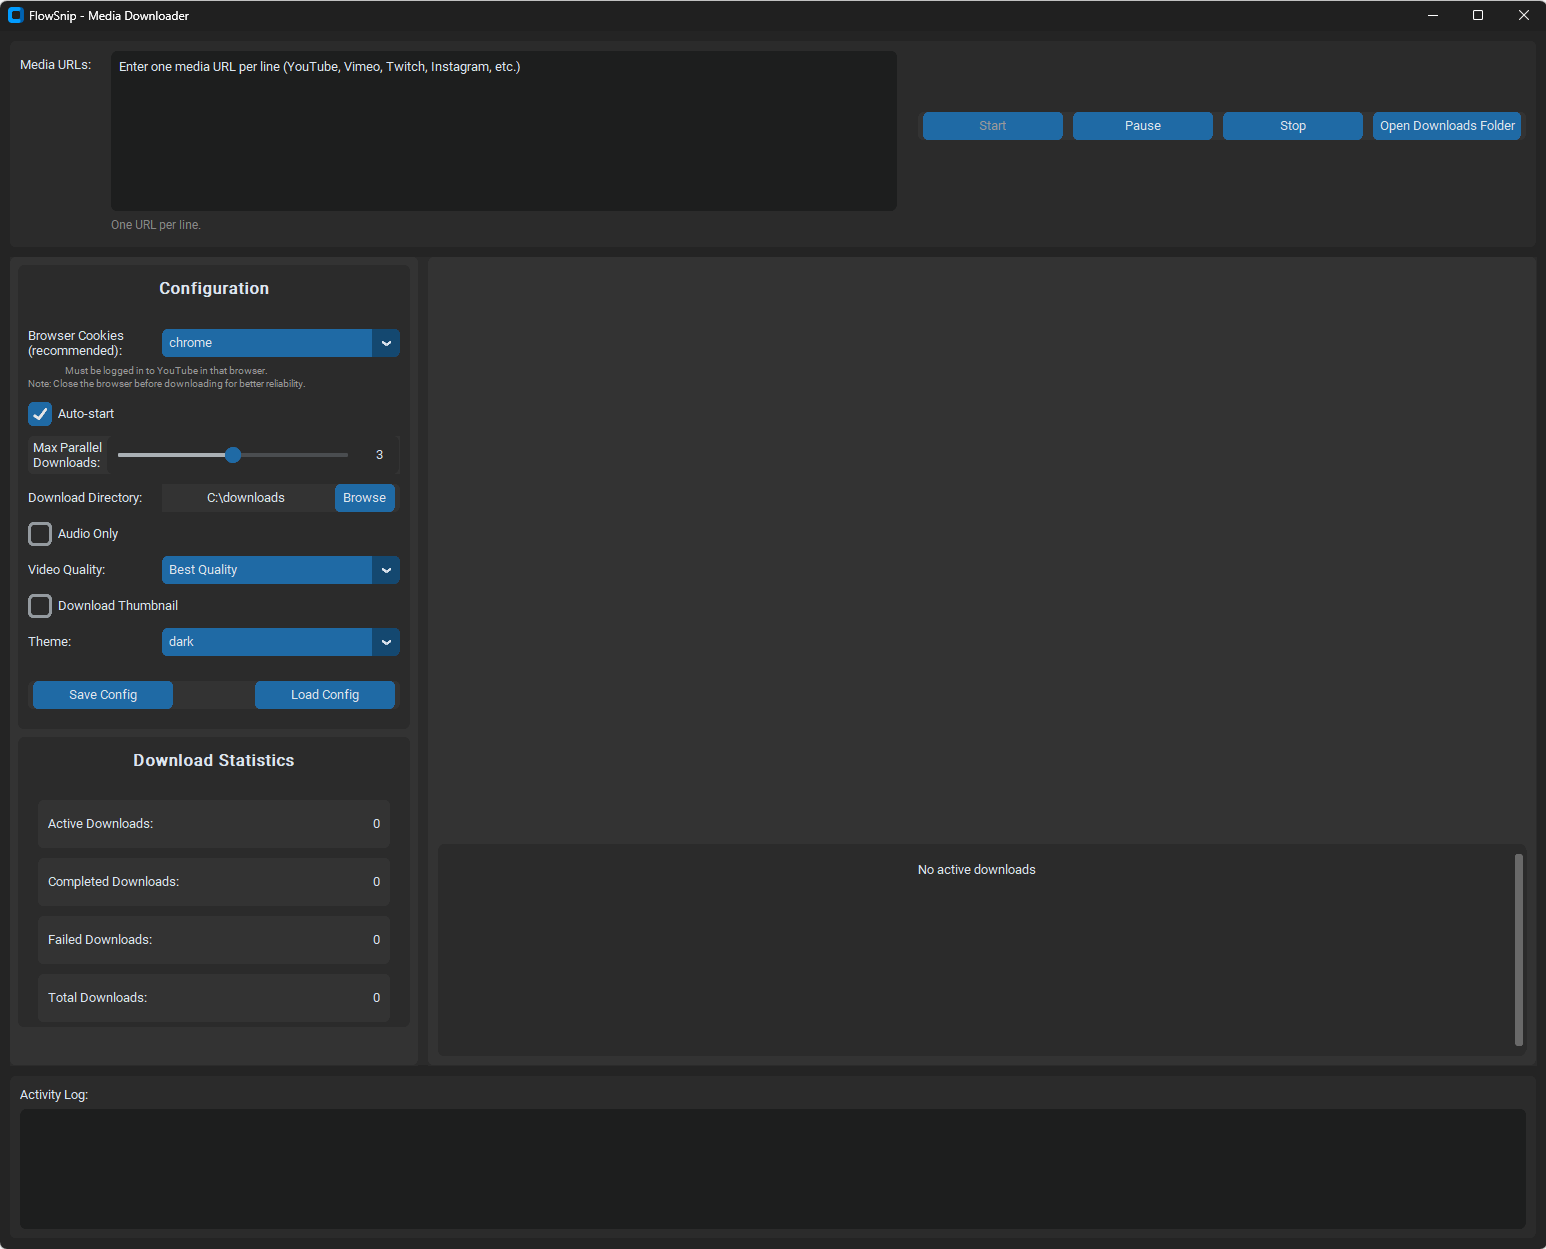
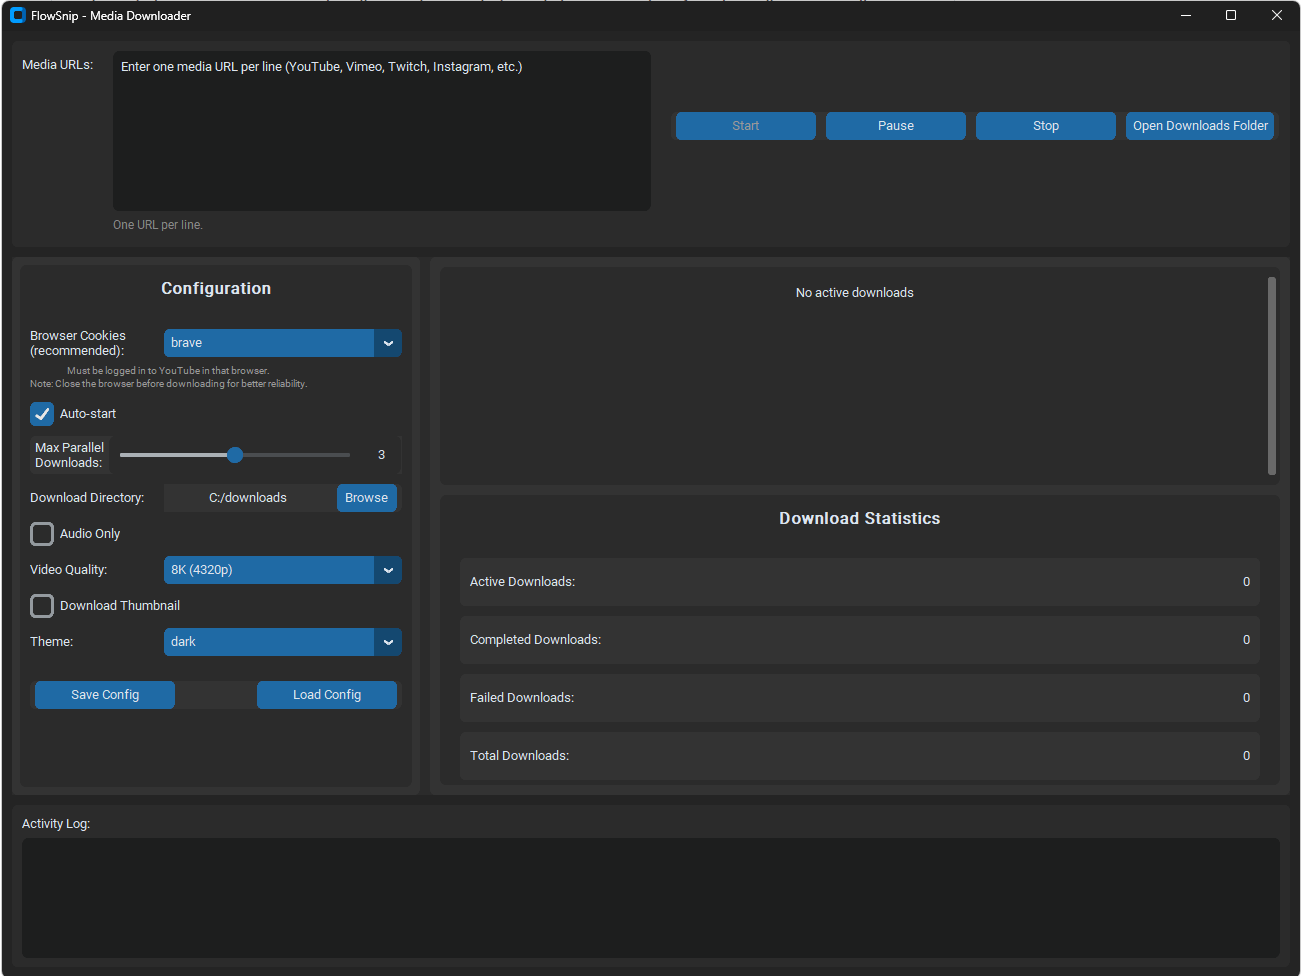
Rearrange the panels so configuration options aren't clipped off

diff --git a/flowsnip/gui.py b/flowsnip/gui.py
@@ -544,47 +544,20 @@ class FlowSnipGUI:
         self.root.grid_rowconfigure(2, weight=0)
 
     def _show_disclaimer_modal(self):
-        """Show the legal disclaimer as a blocking modal after the window renders."""
-        disclaimer_text = (
-            "Legal Disclaimer\n\n"
+        """Show the legal disclaimer after the window has rendered."""
+        result = messagebox.askyesno(
+            "Legal Disclaimer - FlowSnip",
             "FlowSnip is a tool for accessing content you own or have a legal right to access.\n\n"
             "You are solely responsible for:\n"
             "• Ensuring compliance with platform terms of service\n"
-            "• Respecting copyright and intellectual property laws\n"
+            "• Respecting copyright and intellectual property laws\n\n"
             "Maintainers assume NO LIABILITY for legal violations or misuse.\n\n"
-            "For full details, see DISCLAIMER.md in the project repository."
+            "For full details, see DISCLAIMER.md.\n\nDo you agree to these terms?",
         )
-        modal = ctk.CTkToplevel(self.root)
-        modal.title("Legal Disclaimer - FlowSnip")
-        modal.resizable(False, False)
-        modal.grab_set()
-
-        ctk.CTkLabel(modal, text=disclaimer_text, wraplength=400, justify="left").pack(
-            padx=20, pady=(20, 10)
-        )
-
-        accepted = [False]
-
-        def on_accept():
-            accepted[0] = True
-            modal.destroy()
-
-        def on_decline():
-            modal.destroy()
-
-        btn_frame = ctk.CTkFrame(modal)
-        btn_frame.pack(pady=(10, 20))
-        ctk.CTkButton(btn_frame, text="I Agree", command=on_accept).pack(
-            side="left", padx=10
-        )
-        ctk.CTkButton(btn_frame, text="Decline", command=on_decline).pack(
-            side="left", padx=10
-        )
-        modal.wait_window()
-
-        if not accepted[0]:
+        if not result:
             messagebox.showinfo(
-                "Terminated", "You did not agree to the terms. FlowSnip will now exit."
+                "Terminated",
+                "You did not agree to the terms. FlowSnip will now exit.",
             )
             sys.exit(0)
 
@@ -658,7 +631,7 @@ class FlowSnipGUI:
         self.open_folder_button.pack(side="left", padx=5)
 
     def _setup_sidebar(self):
-        """Build the left sidebar containing config and statistics panels."""
+        """Build the left sidebar containing the configuration panel."""
         main_frame = ctk.CTkFrame(self.root)
         main_frame.grid(row=1, column=0, sticky="nsew", padx=10, pady=(0, 10))
         main_frame.grid_columnconfigure(0, weight=0)
@@ -669,29 +642,29 @@ class FlowSnipGUI:
         sidebar.grid(row=0, column=0, sticky="ns", padx=(0, 10), pady=0)
 
         self.config_frame = ConfigFrame(sidebar, self.config)
-        self.config_frame.pack(fill="x", padx=8, pady=(8, 4))
-        self.config_frame.configure(width=90)
-
-        self.stats_frame = ctk.CTkFrame(sidebar, width=160, height=80)
-        self.stats_frame.pack(fill="x", padx=8, pady=(4, 8))
-        self.setup_stats_tab(self.stats_frame)
+        self.config_frame.pack(fill="both", expand=True, padx=8, pady=8)
 
         self.content_frame = ctk.CTkFrame(main_frame)
         self.content_frame.grid(row=0, column=1, sticky="nsew")
         self.content_frame.grid_rowconfigure(0, weight=1)
+        self.content_frame.grid_rowconfigure(1, weight=0)
         self.content_frame.grid_columnconfigure(0, weight=1)
 
     def _setup_downloads_area(self):
-        """Build the scrollable downloads list."""
+        """Build the scrollable downloads list and statistics panel below it."""
         self.downloads_scroll = ctk.CTkScrollableFrame(self.content_frame)
         self.downloads_scroll.grid(
-            row=1, column=0, sticky="nsew", padx=10, pady=(0, 10)
+            row=0, column=0, sticky="nsew", padx=10, pady=(10, 5)
         )
         self.downloads_scroll.grid_columnconfigure(0, weight=1)
         self.status_label = ctk.CTkLabel(
             self.downloads_scroll, text="No active downloads"
         )
         self.status_label.grid(row=0, column=0, pady=6)
+
+        self.stats_frame = ctk.CTkFrame(self.content_frame)
+        self.stats_frame.grid(row=1, column=0, sticky="ew", padx=10, pady=(5, 10))
+        self.setup_stats_tab(self.stats_frame)
 
     def _setup_log_panel(self):
         """Build the activity log panel at the bottom."""

diff --git a/tests/test_gui.py b/tests/test_gui.py
@@ -320,24 +320,8 @@ def test_finish_ui_setup(temp_dir):
 
 def test_show_disclaimer_modal_accept():
     g = _make_gui()
-    buttons = {}
-
-    def capture_button(*args, **kw):
-        btn = MagicMock()
-        if kw.get("text") == "I Agree":
-            buttons["accept"] = kw.get("command")
-        return btn
-
-    mock_modal = MagicMock()
-
-    def do_accept():
-        if "accept" in buttons:
-            buttons["accept"]()
-
-    mock_modal.wait_window.side_effect = do_accept
     with (
-        patch("flowsnip.gui.ctk.CTkToplevel", return_value=mock_modal),
-        patch("flowsnip.gui.ctk.CTkButton", side_effect=capture_button),
+        patch("flowsnip.gui.messagebox.askyesno", return_value=True),
         patch("flowsnip.gui.sys.exit") as mock_exit,
     ):
         g._show_disclaimer_modal()
@@ -346,26 +330,10 @@ def test_show_disclaimer_modal_accept():
 
 def test_show_disclaimer_modal_decline():
     g = _make_gui()
-    buttons = {}
-
-    def capture_button(*args, **kw):
-        btn = MagicMock()
-        if kw.get("text") == "Decline":
-            buttons["decline"] = kw.get("command")
-        return btn
-
-    mock_modal = MagicMock()
-
-    def do_decline():
-        if "decline" in buttons:
-            buttons["decline"]()
-
-    mock_modal.wait_window.side_effect = do_decline
     with (
-        patch("flowsnip.gui.ctk.CTkToplevel", return_value=mock_modal),
-        patch("flowsnip.gui.ctk.CTkButton", side_effect=capture_button),
-        patch("flowsnip.gui.sys.exit") as mock_exit,
+        patch("flowsnip.gui.messagebox.askyesno", return_value=False),
         patch("flowsnip.gui.messagebox.showinfo"),
+        patch("flowsnip.gui.sys.exit") as mock_exit,
     ):
         g._show_disclaimer_modal()
     mock_exit.assert_called_once_with(0)
